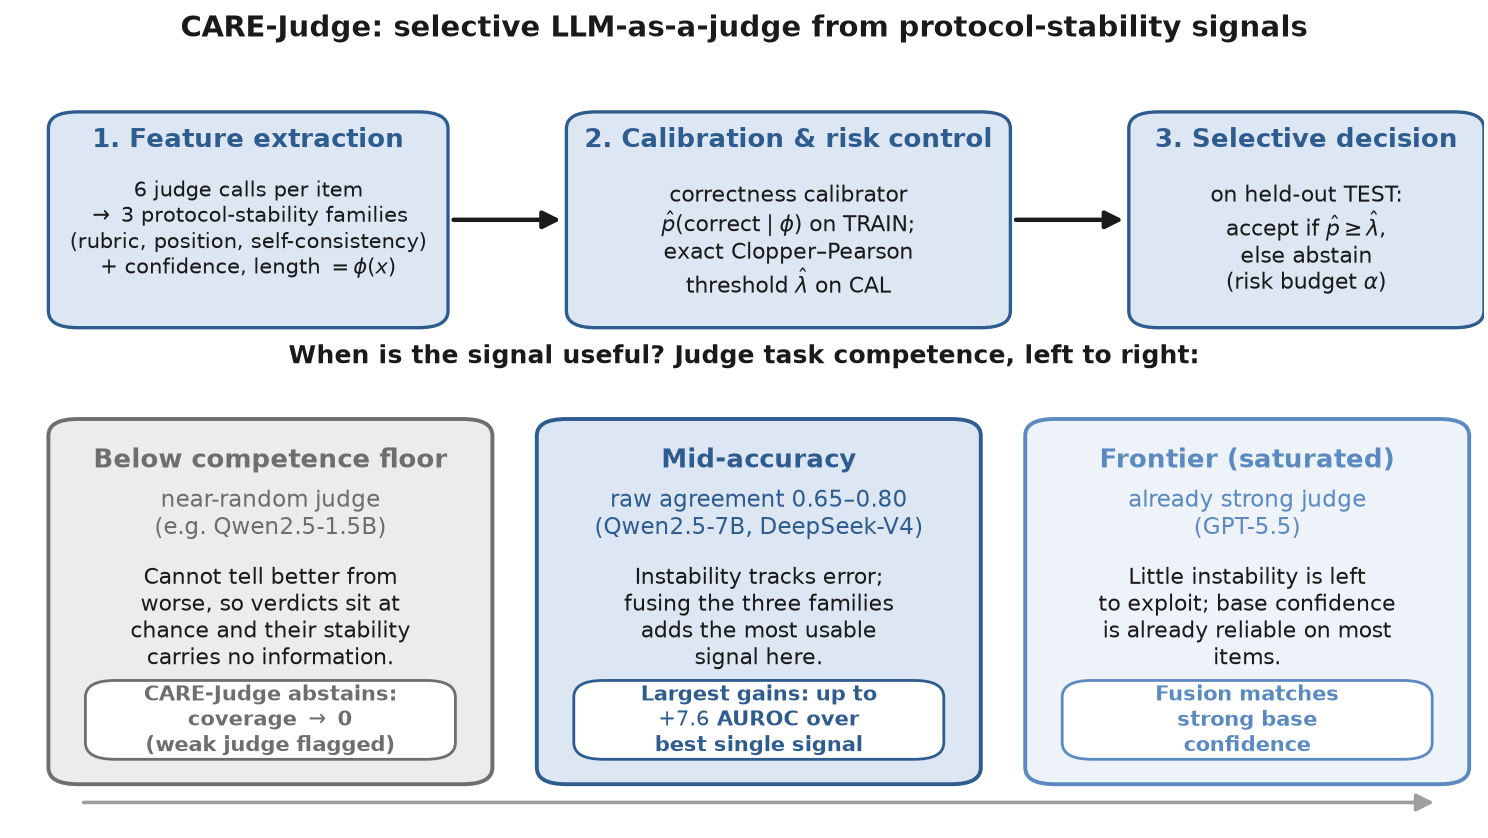
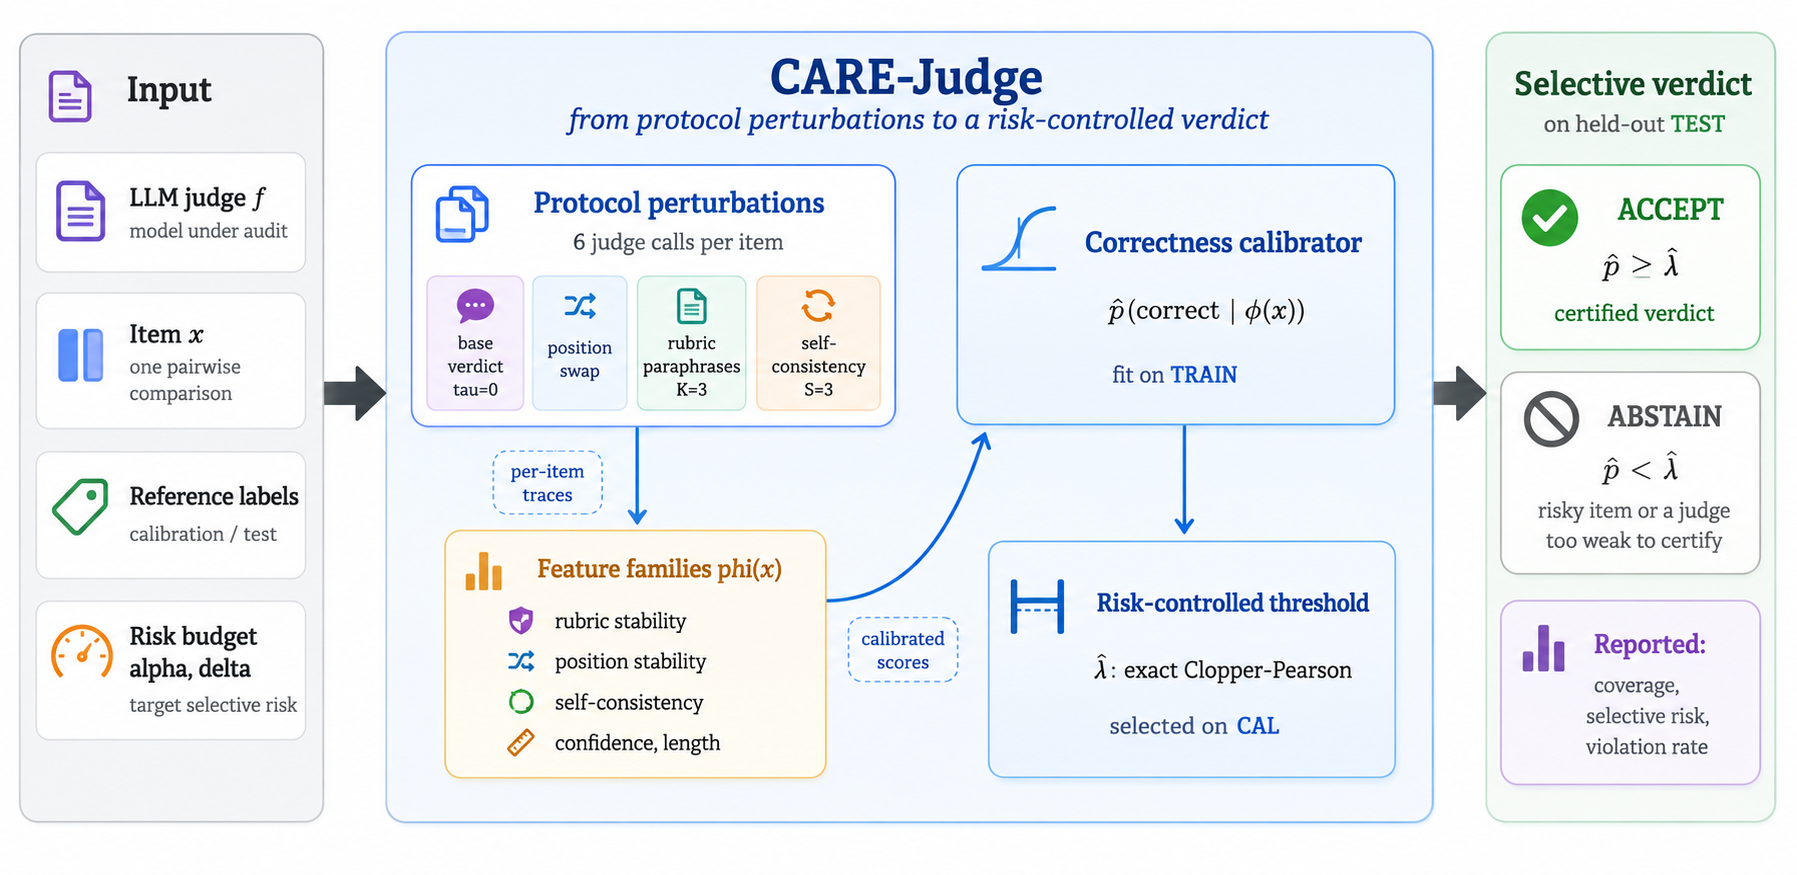
Figure 1: remove leaked prompt-text figure blocks; use uploaded architecture image
The image-generation tool auto-inserted two spurious figure blocks (one in
abstract.tex, one in main.tex) whose captions were the raw generation prompt
('An ultra-wide 21:9 landscape architecture diagram...'). Removed both.

Figure 1 (overview) now uses the uploaded architecture image
(28e9e788...png -> overview.pdf) with a proper architecture caption; signal_gap
remains Figure 2. No prompt text remains anywhere in the PDF.

7 content pages, 0 undefined refs.

diff --git a/scripts/make_overview.py b/scripts/make_overview.py
@@ -1,143 +1,219 @@
 #!/usr/bin/env python3
-"""Redraw Figure 1 (paper/figures/overview.pdf).
+"""Figure 1 (paper/figures/overview.pdf): CARE-Judge architecture, 21:9 banner.
 
-Top row: the CARE-Judge pipeline (feature extraction -> calibration & risk
-control -> selective decision).
+Layout: Input | CARE-Judge method pipeline | Selective-verdict Output, in the
+style of recent ML systems figures. The figure describes the architecture only
+(no per-model results). All quantities are fixed design constants (6 calls,
+K=3, S=3, 40/30/30 split, budget alpha/delta).
 
-Bottom row: three discrete regime cards (no curve, no numeric axis) that state
-the paper's framing: protocol-stability fusion is broadly effective on
-competent judges, and on a judge below the competence floor CARE-Judge abstains
-automatically. The only quantities shown are AUROC / coverage figures taken
-verbatim from Table 1 (tab:main); nothing here is fit or inferred.
+Typeface: Bitter (loaded from assets/fonts) to match the paper body font.
+Small hand-drawn vector glyphs (no emoji dependency) add visual anchors, and
+light callouts annotate the flow.
 """
+import os
 import matplotlib
 
 matplotlib.use("Agg")
 import matplotlib.pyplot as plt
-from matplotlib.patches import FancyBboxPatch, FancyArrowPatch
+import matplotlib.font_manager as fm
+from matplotlib.patches import FancyBboxPatch, FancyArrowPatch, Circle, Polygon, Rectangle
+from matplotlib.lines import Line2D
 
-# palette (consistent with Fig. 2: blue = informative/accept, grey = neutral)
+# ---- Bitter font (matches the paper body) --------------------------------
+FONTDIR = "assets/fonts"
+for f in ("Bitter-Regular", "Bitter-Medium", "Bitter-SemiBold", "Bitter-Bold"):
+    p = os.path.join(FONTDIR, f + ".ttf")
+    if os.path.exists(p):
+        fm.fontManager.addfont(p)
+plt.rcParams["font.family"] = "Bitter"
+plt.rcParams["mathtext.fontset"] = "dejavusans"
+
+# ---- palette --------------------------------------------------------------
+INK = "#1E1E1E"
+GREY_D = "#6E6E6E"
+PANEL = "#EDEFF2"
+PANEL_E = "#C7CCD2"
+CORE = "#EAF1FA"
+CORE_E = "#9DBBDD"
 BLUE_D = "#2F5C8F"
 BLUE_M = "#5B8AC0"
-BLUE_L = "#DCE7F3"
-GREY_D = "#6E6E6E"
-GREY_M = "#9E9E9E"
-GREY_L = "#ECECEC"
-INK = "#1A1A1A"
+FEAT = "#FCF3E2"
+FEAT_E = "#E4C892"
+AMBER_D = "#9A6B1E"
+CAL = "#E7F0FA"
+GREEN = "#3E7D5A"
+GREEN_L = "#E1EFE7"
+GREEN_E = "#AFCBBB"
 
-plt.rcParams.update({"font.family": "DejaVu Sans", "font.size": 9})
-
-fig = plt.figure(figsize=(7.4, 4.15))
-ax = fig.add_axes([0, 0, 1, 1])
+fig = plt.figure(figsize=(10.5, 4.5))  # 21:9
+ax = fig.add_axes((0, 0, 1, 1))
 ax.set_xlim(0, 100)
 ax.set_ylim(0, 100)
 ax.axis("off")
 
 
-def box(x, y, w, h, fc, ec, lw=1.2, rad=0.02):
-    ax.add_patch(
-        FancyBboxPatch(
-            (x, y), w, h,
-            boxstyle=f"round,pad=0,rounding_size={rad*100}",
-            linewidth=lw, edgecolor=ec, facecolor=fc, zorder=2,
-        )
-    )
+def box(x, y, w, h, fc, ec, lw=1.1, rad=1.6, z=2):
+    ax.add_patch(FancyBboxPatch((x, y), w, h,
+                 boxstyle=f"round,pad=0,rounding_size={rad}",
+                 linewidth=lw, edgecolor=ec, facecolor=fc, zorder=z))
 
 
-def arrow(x0, y0, x1, y1, color=INK, lw=1.6):
-    ax.add_patch(
-        FancyArrowPatch(
-            (x0, y0), (x1, y1),
-            arrowstyle="-|>", mutation_scale=13,
-            linewidth=lw, color=color, zorder=3,
-        )
-    )
+def arrow(x0, y0, x1, y1, color=INK, lw=1.7, ms=12, z=5, rad=0.0):
+    ax.add_patch(FancyArrowPatch((x0, y0), (x1, y1), arrowstyle="-|>",
+                 mutation_scale=ms, linewidth=lw, color=color, zorder=z,
+                 connectionstyle=f"arc3,rad={rad}"))
 
 
-def txt(x, y, s, ha="center", va="center", size=9, weight="normal", color=INK):
-    ax.text(x, y, s, ha=ha, va=va, fontsize=size, fontweight=weight, color=color, zorder=4)
+def T(x, y, s, ha="center", va="center", size=8.5, w="normal", c=INK, st="normal", z=6):
+    ax.text(x, y, s, ha=ha, va=va, fontsize=size, fontweight=w, color=c, style=st, zorder=z)
 
 
-# ----------------------------------------------------------------- title strip
-txt(50, 97, "CARE-Judge: selective LLM-as-a-judge from protocol-stability signals",
-    size=10.5, weight="bold")
+# ---- tiny vector glyphs (drawn, so they never depend on emoji fonts) -----
+def g_doc(cx, cy, s, c):  # document: judge under audit
+    ax.add_patch(Rectangle((cx - s*0.55, cy - s*0.7), s*1.1, s*1.4, fill=False,
+                 edgecolor=c, lw=1.3, zorder=7))
+    for k in range(3):
+        ax.add_line(Line2D([cx - s*0.3, cx + s*0.3], [cy + s*0.25 - k*s*0.35]*2,
+                    color=c, lw=1.0, zorder=7))
 
-# =========================================================== TOP: pipeline row
-py, ph = 61, 26
-w1, w2, w3 = 27, 30, 24
-x1 = 3
-x2 = x1 + w1 + 8
-x3 = x2 + w2 + 8
 
-# 1. feature extraction
-box(x1, py, w1, ph, BLUE_L, BLUE_D)
-txt(x1 + w1 / 2, py + ph - 3.4, "1. Feature extraction", weight="bold", color=BLUE_D, size=9.2)
-txt(x1 + w1 / 2, py + ph - 8.0,
-    "6 judge calls per item\n$\\rightarrow$ 3 protocol-stability families\n(rubric, position, self-consistency)\n+ confidence, length $=\\phi(x)$",
-    size=7.6, va="top")
+def g_copies(cx, cy, s, c):  # stacked copies: perturbations
+    for i, off in enumerate((0.5, 0.0, -0.5)):
+        ax.add_patch(Rectangle((cx - s*0.5 + off*s*0.6, cy - s*0.5 - off*s*0.6),
+                     s, s, fill=(i == 2), facecolor=c if i == 2 else "none",
+                     edgecolor=c, lw=1.1, zorder=7))
 
-# 2. calibration & risk control
-box(x2, py, w2, ph, BLUE_L, BLUE_D)
-txt(x2 + w2 / 2, py + ph - 3.4, "2. Calibration & risk control", weight="bold", color=BLUE_D, size=9.2)
-txt(x2 + w2 / 2, py + ph - 8.5,
-    "correctness calibrator\n$\\hat{p}(\\mathrm{correct}\\mid\\phi)$ on TRAIN;\nexact Clopper–Pearson\nthreshold $\\hat{\\lambda}$ on CAL",
-    size=7.8, va="top")
 
-# 3. selective decision
-box(x3, py, w3, ph, BLUE_L, BLUE_D)
-txt(x3 + w3 / 2, py + ph - 3.4, "3. Selective decision", weight="bold", color=BLUE_D, size=9.2)
-txt(x3 + w3 / 2, py + ph - 8.5,
-    "on held-out TEST:\naccept if $\\hat{p}\\geq\\hat{\\lambda}$,\nelse abstain\n(risk budget $\\alpha$)",
-    size=7.8, va="top")
+def g_bars(cx, cy, s, c):  # feature bars
+    for i, h in enumerate((0.5, 1.0, 0.75, 1.15)):
+        ax.add_patch(Rectangle((cx - s*0.8 + i*s*0.45, cy - s*0.6), s*0.3, s*h*1.0,
+                     facecolor=c, edgecolor="none", zorder=7))
 
-arrow(x1 + w1, py + ph / 2, x2, py + ph / 2)
-arrow(x2 + w2, py + ph / 2, x3, py + ph / 2)
 
-# ============================================ BOTTOM: three discrete regime cards
-txt(50, 57.5, "When is the signal useful? Judge task competence, left to right:",
-    size=9.0, weight="bold", color=INK)
+def g_sigmoid(cx, cy, s, c):  # calibrator: fitted curve
+    import numpy as np
+    xs = np.linspace(-1, 1, 40)
+    ys = 1 / (1 + np.exp(-4 * xs))
+    ax.add_line(Line2D(cx + xs * s * 0.9, cy + (ys - 0.5) * s * 1.6,
+                color=c, lw=1.6, zorder=7))
 
-cy, ch = 6, 44
-cw = 30
-gap = 3
-cx = [3, 3 + cw + gap, 3 + 2 * (cw + gap)]
 
-# card 1: below competence floor (abstain) -- grey, the "flag a weak judge" value
-box(cx[0], cy, cw, ch, GREY_L, GREY_D, lw=1.4)
-txt(cx[0] + cw / 2, cy + ch - 5, "Below competence floor", weight="bold", color=GREY_D, size=9.2)
-txt(cx[0] + cw / 2, cy + ch - 11.5, "near-random judge\n(e.g. Qwen2.5-1.5B)", size=8.2, color=GREY_D)
-txt(cx[0] + cw / 2, cy + ch - 24,
-    "Cannot tell better from\nworse, so verdicts sit at\nchance and their stability\ncarries no information.",
-    size=8.0)
-box(cx[0] + 2.5, cy + 3.0, cw - 5, 9.5, "#FFFFFF", GREY_D, lw=1.0)
-txt(cx[0] + cw / 2, cy + 7.7, "CARE-Judge abstains:\ncoverage $\\rightarrow$ 0\n(weak judge flagged)",
-    size=7.6, weight="bold", color=GREY_D)
+def g_gate(cx, cy, s, c):  # threshold: gate / bar with split
+    ax.add_line(Line2D([cx, cx], [cy - s*0.7, cy + s*0.7], color=c, lw=1.8, zorder=7))
+    ax.add_line(Line2D([cx - s*0.8, cx - s*0.15], [cy + s*0.35]*2, color=c, lw=1.3, zorder=7))
+    ax.add_line(Line2D([cx + s*0.15, cx + s*0.8], [cy - s*0.35]*2, color=c, lw=1.3, zorder=7))
 
-# card 2: mid-accuracy (largest gain) -- strong blue
-box(cx[1], cy, cw, ch, BLUE_L, BLUE_D, lw=1.4)
-txt(cx[1] + cw / 2, cy + ch - 5, "Mid-accuracy", weight="bold", color=BLUE_D, size=9.2)
-txt(cx[1] + cw / 2, cy + ch - 11.5, "raw agreement 0.65–0.80\n(Qwen2.5-7B, DeepSeek-V4)", size=8.2, color=BLUE_D)
-txt(cx[1] + cw / 2, cy + ch - 24,
-    "Instability tracks error;\nfusing the three families\nadds the most usable\nsignal here.",
-    size=8.0)
-box(cx[1] + 2.5, cy + 3.0, cw - 5, 9.5, "#FFFFFF", BLUE_D, lw=1.0)
-txt(cx[1] + cw / 2, cy + 7.7, "Largest gains: up to\n$+7.6$ AUROC over\nbest single signal",
-    size=7.6, weight="bold", color=BLUE_D)
 
-# card 3: frontier (redundant, matches) -- light blue
-box(cx[2], cy, cw, ch, "#EEF3FA", BLUE_M, lw=1.4)
-txt(cx[2] + cw / 2, cy + ch - 5, "Frontier (saturated)", weight="bold", color=BLUE_M, size=9.2)
-txt(cx[2] + cw / 2, cy + ch - 11.5, "already strong judge\n(GPT-5.5)", size=8.2, color=BLUE_M)
-txt(cx[2] + cw / 2, cy + ch - 24,
-    "Little instability is left\nto exploit; base confidence\nis already reliable on most\nitems.",
-    size=8.0)
-box(cx[2] + 2.5, cy + 3.0, cw - 5, 9.5, "#FFFFFF", BLUE_M, lw=1.0)
-txt(cx[2] + cw / 2, cy + 7.7, "Fusion matches\nstrong base\nconfidence",
-    size=7.6, weight="bold", color=BLUE_M)
+def g_check(cx, cy, s, c):  # accept
+    ax.add_line(Line2D([cx - s*0.55, cx - s*0.1, cx + s*0.7],
+                [cy, cy - s*0.5, cy + s*0.6], color=c, lw=2.2,
+                solid_capstyle="round", solid_joinstyle="round", zorder=7))
 
-# left-to-right competence direction arrow (ordering cue, not a numeric axis)
-arrow(cx[0] + 2, cy - 2.2, cx[2] + cw - 2, cy - 2.2, color=GREY_M, lw=1.3)
 
-fig.savefig("paper/figures/overview.pdf", bbox_inches="tight", pad_inches=0.02)
-fig.savefig("paper/figures/overview.png", dpi=200, bbox_inches="tight", pad_inches=0.02)
-print("wrote paper/figures/overview.pdf and .png")
+def g_stop(cx, cy, s, c):  # abstain: no-entry
+    ax.add_patch(Circle((cx, cy), s*0.62, fill=False, edgecolor=c, lw=1.8, zorder=7))
+    ax.add_line(Line2D([cx - s*0.42, cx + s*0.42], [cy, cy], color=c, lw=1.8, zorder=7))
+
+
+# ============================================================== INPUT panel
+ix, iw = 1.5, 17.5
+box(ix, 12, iw, 74, PANEL, PANEL_E, 1.2, 2.2)
+T(ix + iw / 2, 81.5, "Input", w="bold", size=11.5)
+inp = [("LLM judge $f$", "model under audit", g_doc),
+       ("Item $x$", "one pairwise comparison", None),
+       ("Reference labels", "calibration / test", None),
+       ("Risk budget $\\alpha,\\delta$", "target selective risk", None)]
+iy = 72
+for name, sub, glyph in inp:
+    box(ix + 1.4, iy - 6.8, iw - 2.8, 6.2, "#FFFFFF", PANEL_E, 0.9, 1.2)
+    if glyph:
+        glyph(ix + 4.2, iy - 3.7, 1.7, BLUE_D)
+        T(ix + iw/2 + 2.2, iy - 2.7, name, w="bold", size=8.0)
+        T(ix + iw/2 + 2.2, iy - 5.4, sub, size=6.5, c=GREY_D)
+    else:
+        T(ix + iw / 2, iy - 2.7, name, w="bold", size=8.0)
+        T(ix + iw / 2, iy - 5.4, sub, size=6.5, c=GREY_D)
+    iy -= 8.7
+
+# ============================================================== CORE panel
+cx, cw = 22, 52
+box(cx, 8, cw, 84, CORE, CORE_E, 1.4, 2.6)
+T(cx + cw / 2, 88, "CARE-Judge", w="bold", size=12)
+T(cx + cw / 2, 83.6, "from protocol perturbations to a risk-controlled verdict",
+  size=7.8, c=BLUE_D, st="italic")
+
+# stage 1: perturbations
+p1x, p1w = cx + 2.5, 20
+box(p1x, 44, p1w, 33, "#FFFFFF", BLUE_M, 1.2, 1.6)
+g_copies(p1x + 3.2, 73.2, 1.6, BLUE_D)
+T(p1x + p1w/2 + 2.0, 74, "Protocol perturbations", w="bold", size=8.6, c=BLUE_D)
+T(p1x + p1w / 2, 70.6, "6 judge calls per item", size=6.7, c=GREY_D)
+for i, c in enumerate(["base verdict  ($\\tau{=}0$)", "position swap",
+                       "rubric paraphrases ($K{=}3$)", "self-consistency ($S{=}3$)"]):
+    yy = 66 - i * 4.4
+    box(p1x + 1.6, yy - 3.4, p1w - 3.2, 3.3, CORE, CORE_E, 0.7, 0.9)
+    T(p1x + p1w / 2, yy - 1.75, c, size=6.8)
+
+# stage 2: feature families
+p2x, p2w = cx + 2.5, 20
+box(p2x, 12.5, p2w, 26, FEAT, FEAT_E, 1.2, 1.6)
+g_bars(p2x + 3.2, 34.6, 1.5, AMBER_D)
+T(p2x + p2w/2 + 2.2, 35.3, "Feature families $\\phi(x)$", w="bold", size=8.5, c=AMBER_D)
+for i, f in enumerate(["rubric stability", "position stability",
+                       "self-consistency", "confidence, length"]):
+    T(p2x + p2w / 2, 30 - i * 3.9, "$\\bullet$  " + f, size=7.0)
+
+arrow(p1x + p1w / 2, 44, p2x + p2w / 2, 38.5, BLUE_D, 1.8)
+T(p1x + p1w/2 + 6.6, 41.2, "per-item\ntraces", size=6.0, c=GREY_D, st="italic")
+
+# stage 3: calibrator
+p3x, p3w = cx + 26.5, 23
+box(p3x, 52, p3w, 25, CAL, BLUE_M, 1.2, 1.6)
+g_sigmoid(p3x + 4.0, 72.5, 2.0, BLUE_D)
+T(p3x + p3w/2 + 2.6, 73.3, "Correctness calibrator", w="bold", size=8.6, c=BLUE_D)
+T(p3x + p3w / 2, 66.5, "$\\hat{p}(\\mathrm{correct}\\mid\\phi(x))$", size=8.4)
+T(p3x + p3w / 2, 61.5, "logistic / isotonic / GBM", size=6.6, c=GREY_D)
+T(p3x + p3w / 2, 57, "fit on TRAIN", size=7.2, w="bold", c=BLUE_D)
+
+# stage 4: threshold
+box(p3x, 20, p3w, 25, CAL, BLUE_M, 1.2, 1.6)
+g_gate(p3x + 4.0, 40.5, 2.0, BLUE_D)
+T(p3x + p3w/2 + 2.6, 41.3, "Risk-controlled threshold", w="bold", size=8.6, c=BLUE_D)
+T(p3x + p3w / 2, 34.5, "$\\hat{\\lambda}$ : exact Clopper–Pearson", size=7.4)
+T(p3x + p3w / 2, 30, "prefix search at level $(\\alpha,\\delta)$", size=6.6, c=GREY_D)
+T(p3x + p3w / 2, 25.5, "selected on CAL", size=7.2, w="bold", c=BLUE_D)
+
+arrow(p2x + p2w, 27, p3x, 60, BLUE_D, 1.8, rad=-0.16)
+arrow(p1x + p1w, 60.5, p3x, 64.5, BLUE_D, 1.8, rad=-0.05)
+arrow(p3x + p3w / 2, 52, p3x + p3w / 2, 45, BLUE_D, 1.8)
+T(p3x + p3w/2 + 8.5, 48.5, "calibrated\nscores", size=6.0, c=GREY_D, st="italic")
+
+# ============================================================== OUTPUT panel
+ox, ow = 77.5, 21
+box(ox, 12, ow, 74, GREEN_L, GREEN_E, 1.2, 2.2)
+T(ox + ow / 2, 81.5, "Selective verdict", w="bold", size=10.5)
+T(ox + ow / 2, 77.2, "on held-out TEST", size=6.9, c=GREY_D)
+
+box(ox + 1.6, 56, ow - 3.2, 15, "#FFFFFF", GREEN, 1.2, 1.4)
+g_check(ox + 4.6, 63.5, 2.0, GREEN)
+T(ox + ow/2 + 2.4, 67, "ACCEPT", w="bold", size=9.4, c=GREEN)
+T(ox + ow/2 + 2.4, 63, "$\\hat{p}\\geq\\hat{\\lambda}$", size=8.0, c=GREEN)
+T(ox + ow / 2, 58.5, "certified verdict", size=6.7, c=GREY_D)
+
+box(ox + 1.6, 34, ow - 3.2, 16.5, "#FFFFFF", GREY_D, 1.2, 1.4)
+g_stop(ox + 4.6, 43.5, 2.0, GREY_D)
+T(ox + ow/2 + 2.4, 47, "ABSTAIN", w="bold", size=9.4, c=GREY_D)
+T(ox + ow/2 + 2.4, 43, "$\\hat{p}<\\hat{\\lambda}$", size=8.0, c=GREY_D)
+T(ox + ow / 2, 37.8, "risky item, or a judge\ntoo weak to certify", size=6.5, c=GREY_D)
+
+box(ox + 1.6, 15, ow - 3.2, 15, "#FFFFFF", GREEN_E, 0.9, 1.2)
+T(ox + ow / 2, 25.8, "Reported", w="bold", size=7.4)
+T(ox + ow / 2, 20.5, "coverage, selective risk,\nviolation rate", size=6.6, c=GREY_D)
+
+# ============================================================== flow arrows
+arrow(ix + iw, 49, cx, 49, INK, 2.0, ms=15)
+arrow(cx + cw, 49, ox, 49, INK, 2.0, ms=15)
+
+fig.savefig("paper/figures/overview.pdf", bbox_inches="tight", pad_inches=0.03)
+fig.savefig("paper/figures/overview.png", dpi=200, bbox_inches="tight", pad_inches=0.03)
+print("wrote paper/figures/overview.pdf and .png (Bitter font)")

diff --git a/paper/sections/introduction.tex b/paper/sections/introduction.tex
@@ -15,8 +15,8 @@ We organize our study around three questions: \emph{(RQ1)} does per-instance pro
 
 \begin{figure*}[t]
 \centering
-\includegraphics[width=\textwidth,height=0.24\textheight,keepaspectratio]{figures/overview.pdf}
-\caption{Overview of CARE-Judge. Six judge calls per item yield three protocol-stability feature families (rubric perturbation, position swap, self-consistency) together with confidence and length baselines ($\boldsymbol\phi(x)$). A correctness calibrator fit on TRAIN and an exact Clopper--Pearson threshold $\hat\lambda$ selected on CAL produce an accept/abstain decision on held-out TEST. The lower panel summarizes when the signal is useful: it improves selective judging across competent judges, adding the most for mid-accuracy judges and little for an already-saturated frontier judge, while a judge below the competence floor sits near chance, carries no usable signal, and is abstained on automatically.}
+\includegraphics[width=\textwidth]{figures/overview.pdf}
+\caption{Overview of CARE-Judge. The judge is probed with six protocol perturbations per item (base verdict, position swap, rubric paraphrases, self-consistency samples), from which three protocol-stability feature families are extracted together with confidence and length baselines ($\boldsymbol\phi(x)$). A correctness calibrator $\hat p(\text{correct}\mid\boldsymbol\phi)$ is fit on TRAIN and an acceptance threshold $\hat\lambda$ is selected on CAL via an exact Clopper--Pearson bound at risk level $(\alpha,\delta)$, yielding an accept/abstain decision on held-out TEST.}
 \label{fig:overview}
 \end{figure*}
 